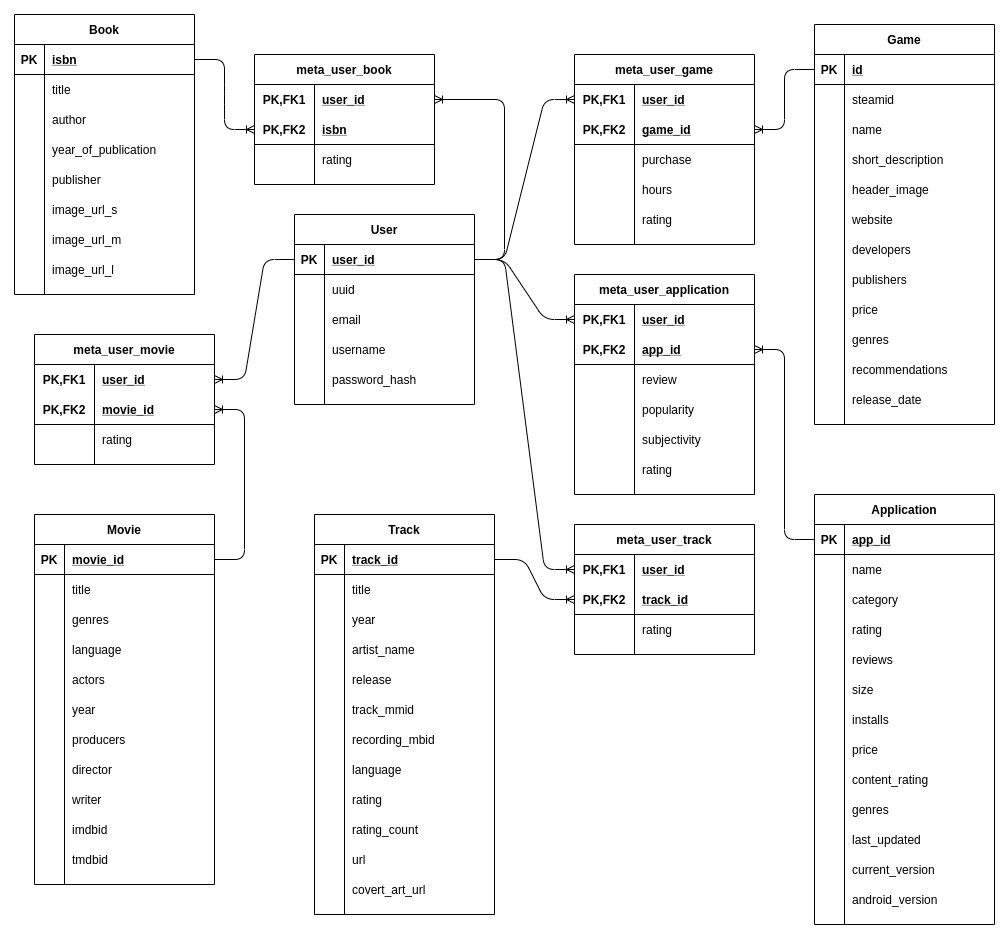
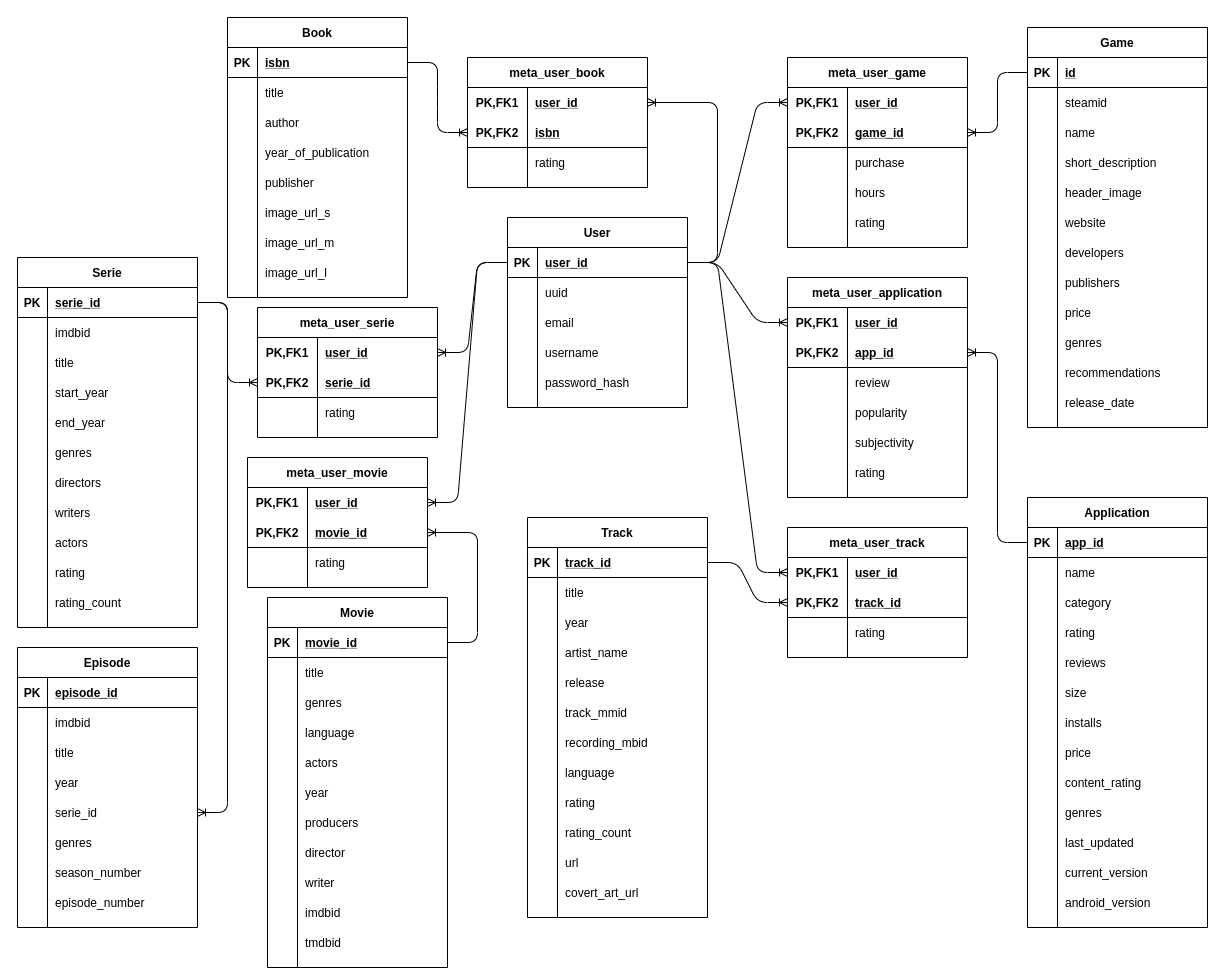
Update doc to add serie data

diff --git a/docs/developers/database.md b/docs/developers/database.md
@@ -35,6 +35,20 @@
 | image_url_m | String | URL for medium image size |
 | image_url_l | String | URL for large image size |
 
+### Episode
+
+| Name | Type | Description |
+|---|---|---|
+| __episode_id__ | __Integer__ | __Episode identifier__ |
+| imdbid | String | IMDB identifier |
+| title | String |  |
+| year | Integer | release year |
+| genres | String | List of genres |
+| serie_id | Integer | Serie identifier |
+| season_number | Integer |  |
+| episode_number | Integer |  |
+
+
 ### Game
 
 | Name | Type | Description |
@@ -76,6 +90,20 @@
 | imdbid | String | IMDB movie identifier |
 | tmdbid | String | TMDB movie identifier |
 
+### Serie
+
+| Name | Type | Description |
+|---|---|---|
+| __serie_id__ | __Integer__ | __Serie identifier__ |
+| imdbid | String | IMDB identifier |
+| title | String |  |
+| start_year | Integer |  |
+| end_year | Integer |  |
+| genres | String | List of genres |
+| writers | Text | List of writers separated by ',' |
+| directors | Text | List of directors separated by ',' |
+| actors | Text | List of actors separated by ',' |
+
 ### Track
 
 | Name | Type | Description |
@@ -108,6 +136,10 @@
 
 !!! info
     All scheme may be subject to change at a later date depending on the progress of the project.
+
+!!! failure
+    There is no relationship between users and series in the datasets we used.
+    Cold start problem for series.
 
 ### User - Content realtionship
 

diff --git a/docs/developers/datasources.md b/docs/developers/datasources.md
@@ -21,7 +21,8 @@
 
 ### Serie
 
-- *coming soon*
+- 73 504 unique series
+- 5 171 349 unique episodes
 
 ### Games
 
@@ -54,7 +55,7 @@
 
 ### Serie
 
-- *coming soon*
+- [IMDB](https://developer.imdb.com/):: All TV series metadata
 
 ### Games
 
